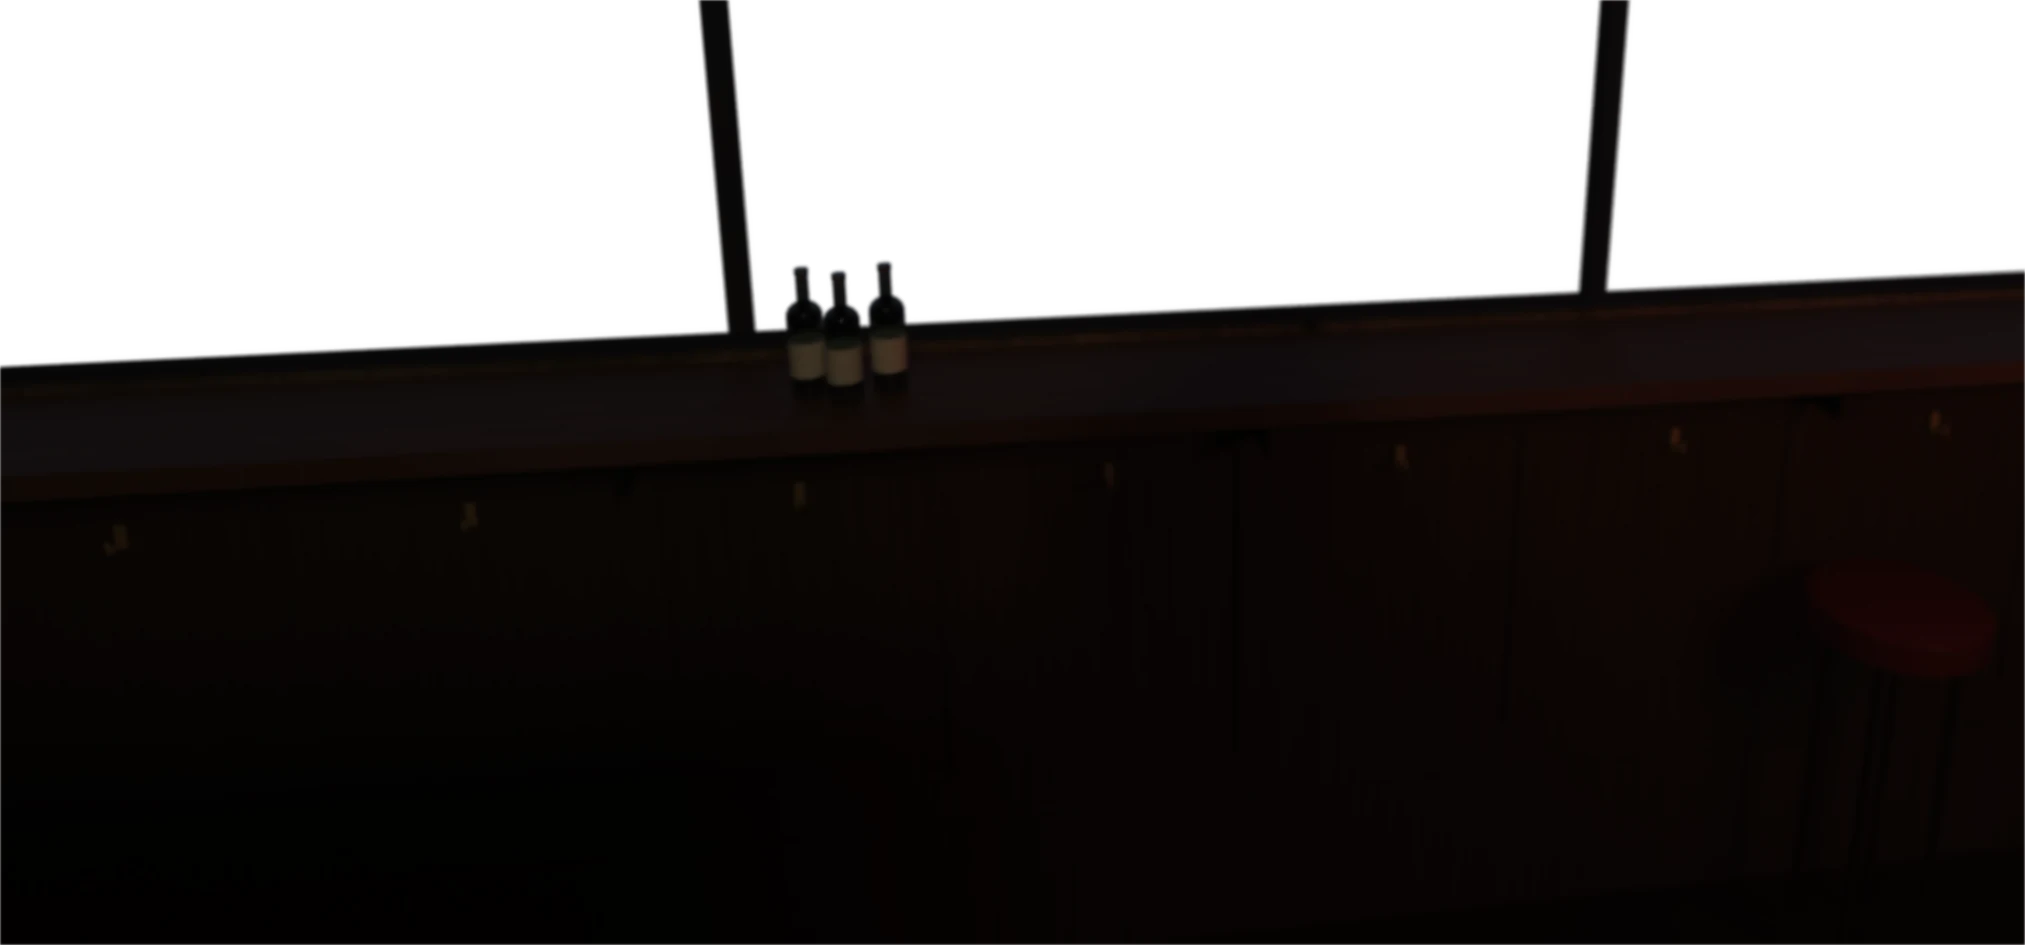
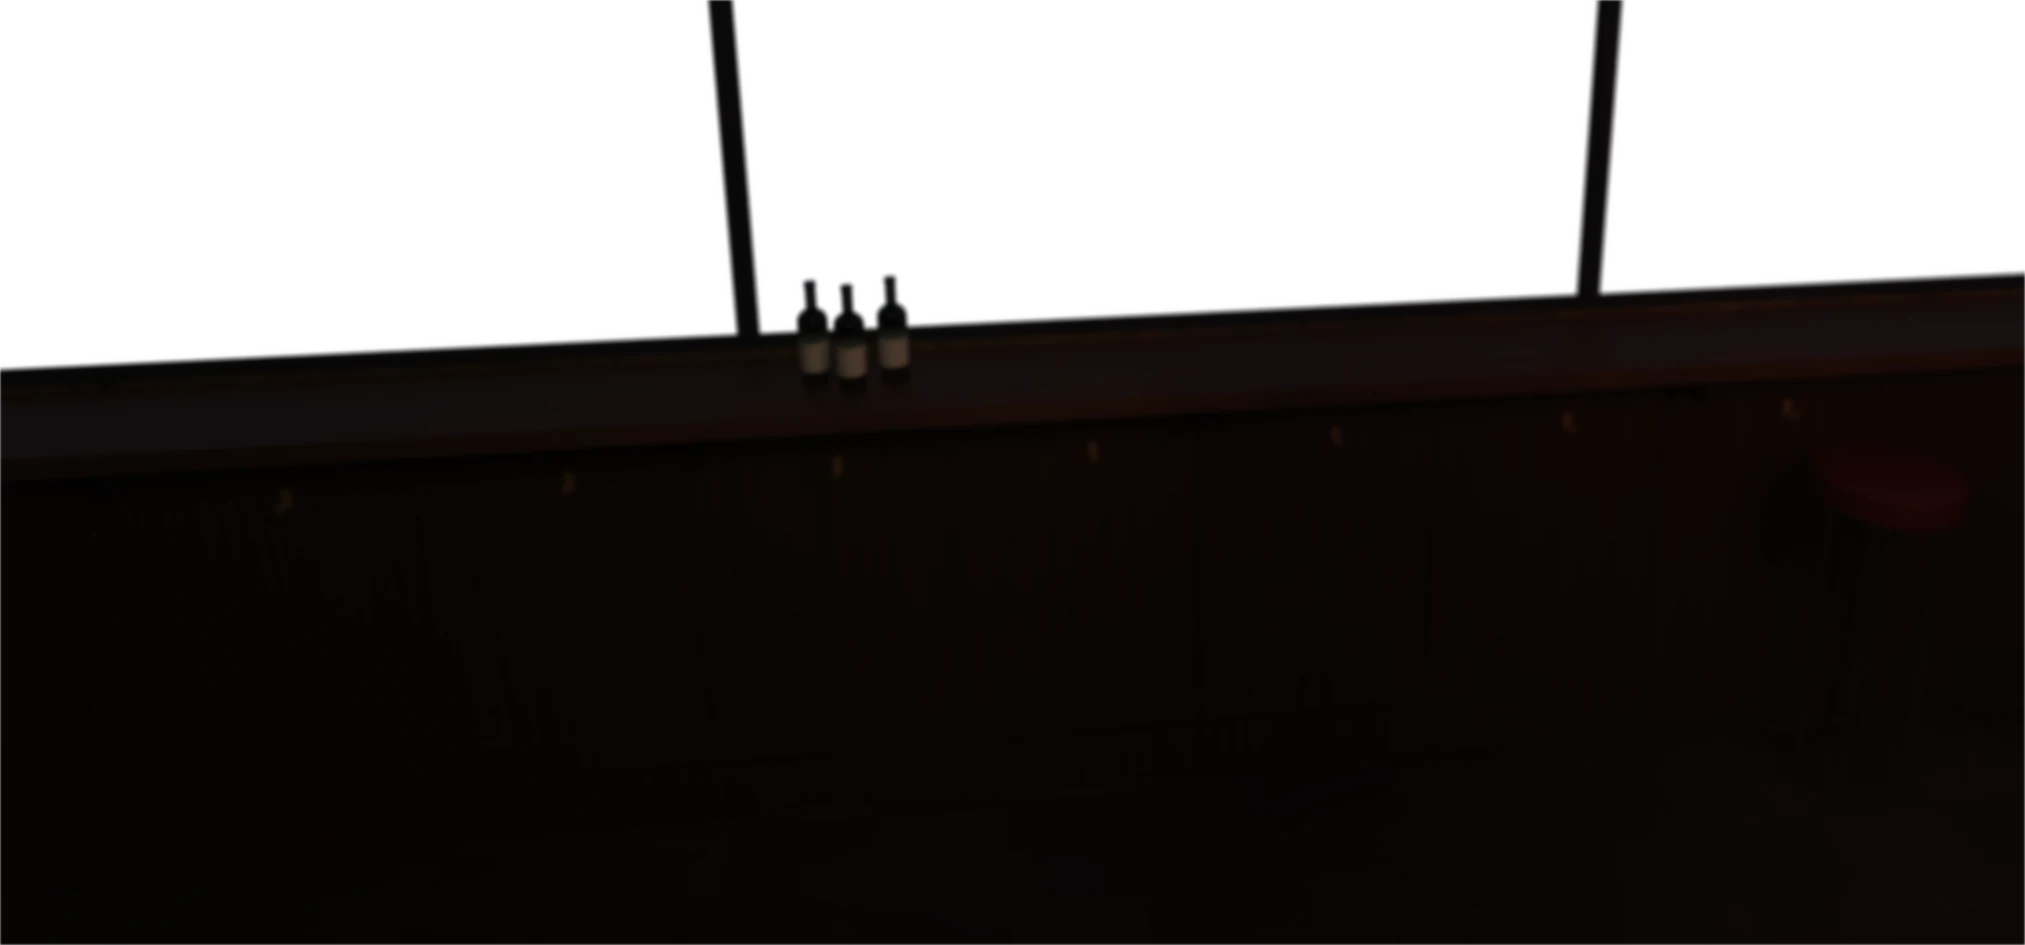
En gång bakom Hasse Backe: väggen längre bort och fönstren nedåt
Bardisken stod nästan i ryggen på honom. Väggen står nu 48 cm längre bort
(VAGG −1100 → −1900), så att det är ungefär 75 cm mellan hans rygg och
diskens kant och folk kommer förbi. Golvet syns till höger mellan pulten och
bardisken, slitna linoleumplattor som är ljusare där man går.

Fönstren och bardisken är dragna 18 cm nedåt och rutorna bredare, så att
glaspartiet är lika stort i bilden som förut och utsikten står kvar. Lamporna
i bakningen följer med väggen, så att furun och bardisken har samma ljus.
Alla sex väggbilderna är ombakade (400 varv, grafikkort).

Changed region(s): [[0.2178, 0.0, 1.0, 0.4296], [0.0, 0.3683, 0.2178, 0.3989]]

diff --git a/scripts/hasse/bak.html b/scripts/hasse/bak.html
@@ -14,6 +14,9 @@ const SC = BAK[LAGE];
 const N = +(q.get('n') || 64);
 const W = SC.W, H = SC.H;
 const D = SCEN.D, VAGG = SCEN.VAGG, GOLV = -2300;
+// (lamporna i affären står lika långt från väggen som när den stod vid −1100, så att väggen får samma ljus
+// som förut, rummets furu; väggen flyttades bakåt 2026-11-11 så att det går att komma förbi bakom honom)
+const DZ = VAGG + 1100;
 // kameran i barens mått (x längs benet, z ut ur väggen)
 const KAM = kamera();
 const VB = SCEN.BAR * Math.PI / 180;
@@ -28,7 +31,7 @@ const atlas = document.createElement('canvas'); atlas.width = 64; atlas.height =
 const P = [];
 let slump = 4711; const rnd = () => (slump = (slump * 16807) % 2147483647) / 2147483647;
 const RGB = (h) => [parseInt(h.slice(1, 3), 16) / 255, parseInt(h.slice(3, 5), 16) / 255, parseInt(h.slice(5, 7), 16) / 255].map((v) => v ** 2.2);
-// typ: 0 låda, 1 stående cylinder, 2 ellipsoid, 3 liggande cylinder (x). mat: 0 färg, 1 furu, 3 etikett, 4 glas, 5 mässing, 6 lyser, 7 osynlig för kameran, 8 bardiskens front, 10 pulten, 11 bardiskens skiva, 12 aluminium, 13 krom, 15 papper, 16 vinyl, 17 tidning
+// typ: 0 låda, 1 stående cylinder, 2 ellipsoid, 3 liggande cylinder (x). mat: 0 färg, 1 furu, 3 etikett, 4 glas, 5 mässing, 6 lyser, 7 osynlig för kameran, 8 bardiskens front, 10 pulten, 11 bardiskens skiva, 12 aluminium, 13 krom, 15 papper, 16 vinyl, 17 tidning, 18 golvet
 const box = (c, h, mat, col = [1, 1, 1], uv = [0, 0, 0, 0]) => P.push({ t: 0, c, h, mat, col, uv });
 const cyl = (c, r, hh, mat, col = [1, 1, 1]) => P.push({ t: 1, c, h: [r, hh, r], mat, col, uv: [0, 0, 0, 0] });
 const ell = (c, h, mat, col = [1, 1, 1]) => P.push({ t: 2, c, h, mat, col, uv: [0, 0, 0, 0] });
@@ -48,10 +51,12 @@ grupp(() => {
   vagg(-9000, 9000, FO.Y1, 4000);
   vagg(-9000, FO.X[0][0], FO.Y0, FO.Y1);
   vagg(FO.X.at(-1)[1], 9000, FO.Y0, FO.Y1);
-  box([0, GOLV - 20, 2000], [9000, 20, 3200], 0, RGB('#2a1c12'));
-  box([0, 1900, 2000], [9000, 20, 3200], 0, RGB('#4a3a2a'));
-  box([-8000, 0, 2000], [20, 4000, 3000], 0, RGB('#3a2a1c'));
-  box([8000, 0, 2000], [20, 4000, 3000], 0, RGB('#3a2a1c'));
+  // (golvet, taket och sidorna från väggen och fram förbi kameran)
+  const z0 = VAGG - FO.DJUP - 200, z1 = 5200;
+  box([0, GOLV - 20, (z0 + z1) / 2], [9000, 20, (z1 - z0) / 2], 18);
+  box([0, 1900, (z0 + z1) / 2], [9000, 20, (z1 - z0) / 2], 0, RGB('#4a3a2a'));
+  box([-8000, 0, (z0 + z1) / 2], [20, 4000, (z1 - z0) / 2], 0, RGB('#3a2a1c'));
+  box([8000, 0, (z0 + z1) / 2], [20, 4000, (z1 - z0) / 2], 0, RGB('#3a2a1c'));
   box([0, 0, 5200], [9000, 4000, 20], 0, RGB('#2a2018'));
 });
 // Karmarna: matt mörkgrå som skyltfönstret i rummet (#3a3a3c i rum.js), runt varje ruta en bit in i väggen,
@@ -65,7 +70,7 @@ grupp(() => {
     box([x1 - K / 2, (FO.Y0 + FO.Y1) / 2, z], [K / 2, (FO.Y1 - FO.Y0) / 2 - K, dz], 0, M);
   }
 });
-const T = -300; // bakdiskens ovansida, så som bardisken i rummet: skiva, fronten med fyllningar i ramar, mässingskrokar
+const T = FO.Y0 - 22; // bakdiskens ovansida, strax under fönstren, så som bardisken i rummet: skiva, fronten med fyllningar i ramar, mässingskrokar
 const TJ = 70, DJ = 560, FR = 340;
 // bardisken
 grupp(() => {
@@ -98,7 +103,7 @@ const stol = (x, z) => {
   cyl([x, Y - 56, z], 175, 12, 13, [0.72, 0.72, 0.7]);
   for (const [a, b] of [[-1, -1], [1, -1], [-1, 1], [1, 1]]) cyl([x + a * 130, Y - 620, z + b * 130], 18, 560, 13, [0.72, 0.72, 0.7]);
 };
-grupp(() => { stol(2240, VAGG + 700); });
+grupp(() => { stol(2760, VAGG + 700); });
 
 // flaskor som gängets, i verklig storlek
 const flaska = (x, z, col, h = 1, etikett = '#e6dcc0') => {
@@ -111,7 +116,7 @@ const flaska = (x, z, col, h = 1, etikett = '#e6dcc0') => {
 // tre flaskor mellan matchlistan och hans axel (bakom listan ska det vara lugnt)
 grupp(() => {
   const Z = VAGG + 300;
-  [[-1010, 0], [-900, 60], [-780, -10]].forEach(([x, dz]) => flaska(x, Z + dz, RGB('#2c4a2c'), 1));
+  [[-1110, 0], [-980, 60], [-840, -10]].forEach(([x, dz]) => flaska(x, Z + dz, RGB('#2c4a2c'), 1));
 });
 // han själv och pulten framför honom: syns inte, men skuggar och kastar ljus
 const HAN = G.length;
@@ -138,21 +143,21 @@ grupp(() => {
 // det ovanpå väggen i himlens färg och så starkt som det är ljust ute (dagsljus i rum-hasse.js), så att
 // väggen får samma fönsterljus som han (DAGSLJUS i rum-hasse-arm.js).
 const LJ = q.get('dag') ? [
-  { p: [4700, 760, 3100], r: 1050, e: [1, 1, 1].map((v) => v * +(q.get('ds') || 30)) },
+  { p: [4700, 760, 3100 + DZ], r: 1050, e: [1, 1, 1].map((v) => v * +(q.get('ds') || 30)) },
 ] : [
   // svagt från gatan och lamporna i affären (nyckeln i figurens riktning, rum-hasse-arm.js)
-  { p: [-700, 1450, 2100], r: 460, e: [1.0, 0.9, 0.76].map((v) => v * 4.5) },
+  { p: [-700, 1450, 2100 + DZ], r: 460, e: [1.0, 0.9, 0.76].map((v) => v * 4.5) },
   // neonskylten i affärens fönster till höger: rött
-  { p: [2600, 650, 1500], r: 260, e: [1.0, 0.16, 0.1].map((v) => v * 9) },
+  { p: [2600, 650, 1500 + DZ], r: 260, e: [1.0, 0.16, 0.1].map((v) => v * 9) },
   // gatan genom fönstret till höger: kallt
-  { p: [3800, 1300, 3400], r: 620, e: [0.55, 0.68, 1.0].map((v) => v * 3.6) },
+  { p: [3800, 1300, 3400 + DZ], r: 620, e: [0.55, 0.68, 1.0].map((v) => v * 3.6) },
   // ?lys=1: lysröret i affärens tak är tänt, som i rummet från sex på morgonen till midnatt (rum-folk.js):
   // röret framför baren och affären i dess sken till höger. Sidan byter mellan den här bilden och
   // nattens efter klockan, och lägger fönsterljuset (?dag=1) ovanpå på dagen (vagg i rum-hasse.js).
   ...(q.get('lys') ? [
-    { p: [-700, 1820, 2300], r: 210, e: [0.96, 0.98, 1.0].map((v) => v * +(q.get('ls') || 100)) },
-    { p: [1500, 1820, 2300], r: 210, e: [0.96, 0.98, 1.0].map((v) => v * +(q.get('ls') || 100)) },
-    { p: [5600, 1000, 3200], r: 1300, e: [0.95, 0.92, 0.86].map((v) => v * +(q.get('as') || 18)) },
+    { p: [-700, 1820, 2300 + DZ], r: 210, e: [0.96, 0.98, 1.0].map((v) => v * +(q.get('ls') || 100)) },
+    { p: [1500, 1820, 2300 + DZ], r: 210, e: [0.96, 0.98, 1.0].map((v) => v * +(q.get('ls') || 100)) },
+    { p: [5600, 1000, 3200 + DZ], r: 1300, e: [0.95, 0.92, 0.86].map((v) => v * +(q.get('as') || 18)) },
   ] : []),
 ];
 // Det som kommer in genom fönstren: en stråle som går ut genom dem (bort från en, −z) hämtar det här. På
@@ -273,6 +278,20 @@ vec3 pultTra(vec3 p) {
   c *= .94 + .1 * c2;
   return c;
 }
+// golvet: slitna linoleumplattor (30 cm) i två nästan lika bruna toner, ljusare och mattare där man går förbi
+// bakom honom, mellan bardisken och pulten
+vec3 golv(vec3 p, out float blank) {
+  vec2 r = p.xz / 500.; vec2 i = floor(r), f = fract(r);
+  float rut = mod(i.x + i.y, 2.);
+  vec3 c = mix(vec3(.052, .034, .021), vec3(.066, .045, .028), rut) * (.9 + .2 * h2(i));
+  c *= .85 + .3 * fbm(p.xz * .004 + 3.);
+  float fog = smoothstep(0., .012, f.x) * smoothstep(0., .012, 1. - f.x) * smoothstep(0., .012, f.y) * smoothstep(0., .012, 1. - f.y);
+  float gang = smoothstep(${(VAGG + 420).toFixed(1)}, ${(VAGG + 720).toFixed(1)}, p.z) * smoothstep(${(SCEN.DISK.Z + 60).toFixed(1)}, ${(SCEN.DISK.Z - 300).toFixed(1)}, p.z);
+  float slit = gang * (.5 + .5 * fbm(p.xz * .0016 + 9.));
+  c = mix(c, vec3(.085, .066, .048), .45 * slit);
+  blank = .3 * (1. - .7 * slit);
+  return c * (.6 + .4 * fog);
+}
 vec3 himmel(vec3 d, bool syns) { return vec3(0.); }
 vec3 kosin(vec3 n) { float a = rn() * 2. * PI, z = rn() * 2. - 1.; float r = sqrt(1. - z * z); return normalize(n + vec3(r * cos(a), r * sin(a), z) * .9995); }
 // (färgen, och hur mycket av bildpunkten väggen täcker: noll där kameran ser rakt ut genom ett fönster,
@@ -303,6 +322,7 @@ vec4 spara(vec3 ro, vec3 rd) {
     if (m == 11) { c = barTra(p, true); gloss = .55; grov = .22; }
     if (m == 17) { vec3 lc = p - data(h.id, 0).xyz; if (h.n.y > .5) { vec2 uv = lc.xz / d1.xz * .5 + .5; c = textureLod(uA, vec2(mix(d3.x, d3.z, uv.x), mix(d3.y, d3.w, uv.y)), 0.).rgb * .62; } }
     if (m == 16) { gloss = .6; grov = .18; }
+    if (m == 18) { c = golv(p, gloss); grov = .3; }
     if (m != 4) kam = false;
     if (m == 13) { vec3 r = reflect(rd, n); rd = normalize(r + (vec3(rn(), rn(), rn()) - .5) * .18); ro = p + n * .5; T *= c; spec = true; forsta = false; continue; }
     if (m == 15) { if (abs(h.n.z) > .5) { vec3 lc = p - data(h.id, 0).xyz; vec2 uv = lc.xy / d1.xy * .5 + .5; c = textureLod(uA, vec2(mix(d3.x, d3.z, uv.x), mix(d3.w, d3.y, uv.y)), 0.).rgb * .62; } else c = vec3(.3); }

diff --git a/public/rum-hasse-scen.js b/public/rum-hasse-scen.js
@@ -33,16 +33,19 @@ export const SCEN = {
   DISK: { Y: -290, Z: 185, DJUP: 900 },
   // pultens arm mot en, i pultens mått: dess vänstra kant och bredden (lika bred som benet, som pulten i rummet)
   HORN: { X: 110, B: 900 },
-  VAGG: -1100,
+  // väggen bakom honom (barens mått): så långt bort att det går att komma förbi bakom hans rygg, ungefär 75 cm
+  // mellan ryggen och bardiskens kant. Förut stod disken nästan i ryggen på honom, vid −1100 (ändrat 2026-11-11).
+  VAGG: -1900,
   // var han sitter längs benet, i pultens mått (rum-pult.js): så långt ut mot hörnet att händerna ligger
   // vid geringssnittet, som i rummet. Förut satt han vid x = 0, 27 cm längre in på benet (ändrat 2026-11-09).
   PLATS: 450,
   // Fönstren bakom honom (barens mått), som på baren Bron vid S:t Eriksbron: ett stort glasparti ut mot bron och
-  // Fridhemsplan, från bardiskens skiva och upp förbi bildens överkant. Rutorna (X: vänster och höger kant) sitter
+  // Fridhemsplan, från bardiskens skiva och upp förbi bildens överkant. När väggen flyttades bakåt drogs de ned
+  // (bardisken med dem) och blev bredare, så att de är lika stora i bilden som förut och utsikten står kvar. Rutorna (X: vänster och höger kant) sitter
   // kant i kant, och karmen (KARM bred, mörkgrå som skyltfönstret i rummet) går runt var och en, så att posterna
   // emellan blir dubbelt så breda. Ingen post står bakom hans huvud. Glaset sitter DJUP in i väggen. Väggen
   // (scripts/hasse/bak.html) och utsikten (rum-hasse-ute.js) läser samma mått.
-  FONSTER: { Y0: -278, Y1: 1500, X: [[-4600, -1260], [-1260, 1540], [1540, 4600]], KARM: 34, DJUP: 120 },
+  FONSTER: { Y0: -575, Y1: 1500, X: [[-5400, -1400], [-1400, 1900], [1900, 5500]], KARM: 34, DJUP: 120 },
 };
 
 // Kameran: läget, och axlarna i världen (höger, upp och bakåt; den tittar mot −bak). Rotationen är

diff --git a/README.md b/README.md
@@ -1213,6 +1213,12 @@ bara lokalt. Analyserna visas som de ligger i `data/analyser.json`; hur de skriv
   så hög som räcket, ungefär en och en halv våning vid tegelhuset, och stod med fötterna på brons kant, skarpare och
   mörkare än allt annat i utsikten. Nu är den drygt hälften så stor, går på gångbanan bakom räcket med benen
   skymda, och har samma dis som bron och mer oskärpa än förut (knappt hälften av utsiktens; lika oskarp blir den en fläck). Se [Hasse Backe](#hasse-backe), *Utsikten*.
+- **En gång bakom Hasse Backe (2026-11-11, användarens önskemål):** "ett litet avstånd mellan väggen och hasse så
+  att människor kommer förbi", och fönstren skulle fortfarande vara stora, "så kanske dra ner dem lite?". Väggen
+  med bardisken står 48 cm längre bort, så att det är ungefär 75 cm mellan hans rygg och diskens kant, och golvet
+  syns mellan pulten och bardisken. Fönstren och bardisken är dragna 18 cm nedåt och rutorna bredare, så att
+  glaspartiet är lika stort i bilden som förut och utsikten står kvar. Väggen är ombakad. Se
+  [Hasse Backe](#hasse-backe), *Bilden*.
 - **Svaren till Hasse Backe i kupongens tryck (2026-11-04, användarens önskemål):** guldpillren
   och de understrukna länkarna i samtalet var webbknappar som inte hörde hemma i tobaksaffären.
   Svaren är nu lappar i tipskupongens terrakotta och krämvita papper, och det som går härifrån
@@ -6196,7 +6202,10 @@ från sidan), 45 cm högre än hans ögon och lutad 14° nedåt, som när man st
 att pulten ses uppifrån som i rummet: koppen ungefär 35° uppifrån och det inre hörnet 39°, mot 17°
 när han satt längre bort bakom en bardisk (ändrat 2026-11-07, se nedan). Pultens arm går fram förbi
 kamerans högra sida, och med ögat 31 cm över hans och 10° lutning såg den ut som en ramp som steg mot
-hörnet; 14 cm högre och 4° mer nedåt ligger den vågrät (ändrat 2026-11-08, väggen ombakad). Benet är vridet 8° (`BAR`),
+hörnet; 14 cm högre och 4° mer nedåt ligger den vågrät (ändrat 2026-11-08, väggen ombakad). Bakom hans rygg
+är det en gång, ungefär 75 cm fram till bardiskens kant, så att folk kommer förbi; golvet (slitna linoleumplattor,
+ljusare där man går) syns mellan pulten och bardisken till höger (`VAGG`; förut stod disken nästan i ryggen på
+honom, ändrat 2026-11-11, väggen ombakad). Benet är vridet 8° (`BAR`),
 så att pultens arm går fram förbi kamerans högra sida, som när man har vänt sig lite mindre än en rät
 vinkel. Eftersom han sitter vid hörnet går armen fram tätt intill en, som pulten man står vid.
 
@@ -6353,7 +6362,8 @@ ljuset på honom nästan var detsamma dag som kväll (ändrat 2026-11-06).
 Kungsholmen och Fridhemsplan: den gröna bron som kommer in från höger och går bort mot andra sidan, med räcket och
 lyktstolparna, slänten och träden ned mot spåren, vattnet, husraden längs stranden och de två tornhusen där bron
 slutar – det grå höghuset och tegelhuset med den ärgade kupolen, till höger om hans huvud. Glaset är tre stora
-rutor från bardiskens skiva och upp förbi bildens överkant (`FONSTER` i
+rutor från bardiskens skiva och upp förbi bildens överkant, dragna nedåt och bredare när väggen flyttades bakåt så
+att de är lika stora i bilden (`FONSTER` i
 [public/rum-hasse-scen.js](public/rum-hasse-scen.js)), med karmar och poster i samma mörkgrå som skyltfönstret i
 rummet och ingen post bakom hans huvud; på bardisken står bara flaskorna, och barstolen står kvar. Vädret och ljuset
 är rummets (`Vader.nu`, `RumUte.light` och färgerna i `RumUte.farg`, samma som gatan genom skyltfönstret): himlens

diff --git a/scripts/hasse/README.md b/scripts/hasse/README.md
@@ -8,7 +8,7 @@
 
 Glaspartiet (`FONSTER` i `rum-hasse-scen.js`) är genomskinligt i bilderna där kameran ser rakt ut genom det, och genom en flaska bara så mycket som glaset släpper igenom; sidan lägger utsikten bakom (`public/rum-hasse-ute.js`, som läser samma mått). Bilderna har alltså alfa (cwebp behåller det). Ljuset utifrån (`HIMMEL`: himlen med `?dag=1`, annars stadens svaga, kalla sken) räknas som en lampa från en slumpad punkt i fönstren (`FON`), och i blanka ytor med sin andel (`glans`), så att det inte blir gnistor. Karmarna är matta som skyltfönstret i rummet (blanka gnistrade de), och varje stråle får bidra med högst 2. Efter bakningen jämnar ett kantbevarande filter ut det korn som är kvar i träet och karmarna, utan att kanterna mot glaset, flaskorna och disken blir suddiga (`mjuka` i `baka.mjs`; på en bild som redan är bakad: `node scripts/hasse/baka.mjs mjuka in.png ut.png`). Ändras `FONSTER` ska väggen bakas om. Alla sex bakades om 2026-11-10 när glaspartiet kom, med mjukvarugrafik (160 varv för de breda, 240 för telefonen på höjden), och gjordes till webp med Pillow (kvalitet 88, alfa 90) i stället för cwebp, som inte fanns.
 
-Ändras kameran, baren, pulten eller var han sitter vid den (`DISK`, `HORN`, `PLATS`) i `rum-hasse-scen.js` ska väggen bakas om. Pulten framför honom bakas inte: sidan ritar den en gång i hans värld (`diskBild` i `public/rum-hasse-3d.js`), med väggens bild svagt speglad i träet. I bakningen finns den och han själv bara som något som skuggar och kastar ljus.
+Ändras kameran, baren, pulten eller var han sitter vid den (`DISK`, `HORN`, `PLATS`) i `rum-hasse-scen.js` ska väggen bakas om. Det gäller också väggen (`VAGG`): den flyttades 2026-11-11 från −1100 till −1900, så att det blev en gång bakom honom, och alla sex bilderna bakades om med grafikkort på Macen, 400 varv (ungefär tre minuter per bild). Lamporna i `LJ` står lika långt från väggen som förut (`DZ`), så att furun och bardisken får samma ljus, och bardiskens skiva följer fönstren (`T` = `FONSTER.Y0` − 22). Golvet syns nu till höger om pulten (`golv` i bak.html). Pulten framför honom bakas inte: sidan ritar den en gång i hans värld (`diskBild` i `public/rum-hasse-3d.js`), med väggens bild svagt speglad i träet. I bakningen finns den och han själv bara som något som skuggar och kastar ljus.
 
 Alla sex väggbilderna bakades om 2026-11-08 när kameran flyttades upp (`HOJD` 750, `LUT` 14), med mjukvarugrafik i Chromium (`CHROME=…`, se nedan): 160 varv för de breda och 240 för telefonen på höjden, i stället för 400. De har något mer brus än förut; med grafikkort på Macen går det att baka om dem med 400 varv som ovan. När han flyttade ut mot pultens hörn 2026-11-09 (`PLATS`) bakades alla sex om på samma sätt; pulten skuggar väggen lite annorlunda, mest i telefonens bilder på höjden.
 
